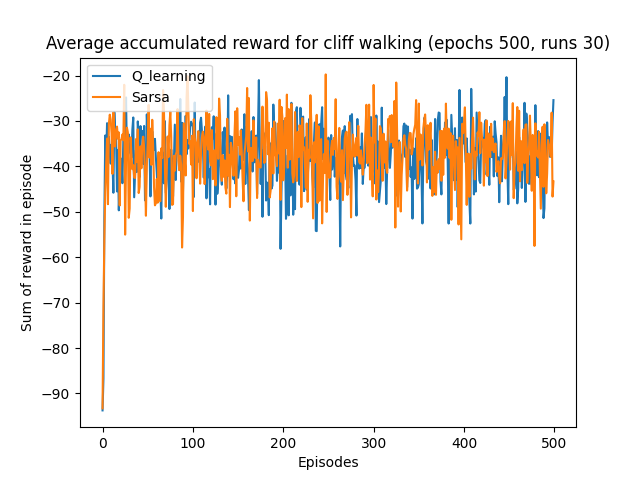
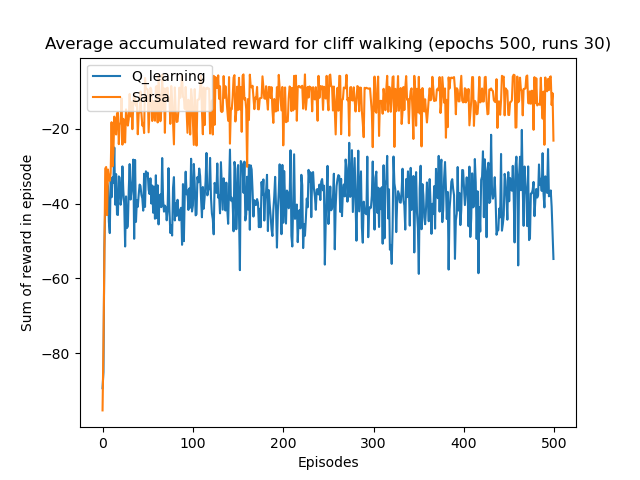
Fixed sarsa vs q-learning plot

diff --git a/rl/rl-book/helpers/play_cliff_walking_vs_agent.py b/rl/rl-book/helpers/play_cliff_walking_vs_agent.py
@@ -4,6 +4,8 @@ import os
 from optimization_utils.diagnostics.Diagnostics import Diagnostics
 from helpers.analysis.Parameter import Parameter
 from .random_agents import RandomAgent
+from .State import State
+from .StateValue import StateValue
 
 EVALUATION_RUNS = 30
 EPOCHS = 500
@@ -13,6 +15,9 @@ def evaluate_agent(env, agent_instance):
 
     for _ in range(EVALUATION_RUNS):
         agent = agent_instance(env.action_space, eps=0.1, decay=1)
+        agent.q = State(env.action_space, value_constructor=lambda n: StateValue(n, initial_value=lambda: 0))
+        agent.alpha = 0.1
+        agent.gamma = 1
         agent_diagnostics = Diagnostics()
 
         with agent_parameter as p:
@@ -26,13 +31,14 @@ def evaluate_agent(env, agent_instance):
 
                 if epoch % 1_000 == 0:
                     agent_diagnostics.print(epoch)
+    print("")
     return agent_parameter
     
 def play_cliff_walking(first_agent_instance, second_agent_instance=RandomAgent, dirname="."):
     env = CliffWalking(n=3)
 
     first_agent_parameter = evaluate_agent(env, first_agent_instance)
-    second_agent_parameter = evaluate_agent(env, first_agent_instance)
+    second_agent_parameter = evaluate_agent(env, second_agent_instance)
 
     plt.plot(first_agent_parameter.get_reward(), label=first_agent_instance.__name__)
     plt.plot(second_agent_parameter.get_reward(), label=second_agent_instance.__name__)

diff --git a/rl/rl-book/temporal-difference-learning/sarsa.py b/rl/rl-book/temporal-difference-learning/sarsa.py
@@ -11,6 +11,8 @@ from helpers.play_tic_tac_toe_vs_random_agent import play_tic_tac_toe
 from helpers.play_grid_world_vs_random_agent import play_grid_world
 from helpers.State import State
 import os
+from helpers.action_policy.ArgMaxTieBreak import argmax_tie_break
+import numpy as np
 
 class Sarsa:
     def __init__(self, action, eps=1, decay=0.9999) -> None:
@@ -38,7 +40,14 @@ class Sarsa:
         return random.sample(self.env.legal_actions, k=1)[0]
 
     def on_policy(self):
-        return self.softmax(self.q[str(self.env)].np(), legal_actions=self.env.legal_actions)
+        p = self.q[str(self.env.state)].np().astype(np.float)
+        for index in range(len(p)):
+            if index not in self.env.legal_actions:
+                p[index] = float('-inf')
+        return argmax_tie_break(
+            p
+        )
+        return self.softmax(self.q[str(self.env.state)].np(), legal_actions=self.env.legal_actions)
 
     def get_action(self):
         return self.epsilon(
@@ -60,7 +69,7 @@ class Sarsa:
             if not env.done:
                 next_action = self.get_action()
 
-            if self.is_training:
+            if self.is_training:# and next_action != -1:
                 self.q[state][action] += self.alpha * (
                     reward + self.gamma * self.q[next_state][next_action] -
                                 self.q[state][action]

diff --git a/rl/rl-book/temporal-difference-learning/q_learning.py b/rl/rl-book/temporal-difference-learning/q_learning.py
@@ -11,6 +11,8 @@ from helpers.play_tic_tac_toe_vs_random_agent import play_tic_tac_toe
 from helpers.play_grid_world_vs_random_agent import play_grid_world
 from helpers.State import State
 import os
+from helpers.action_policy.ArgMaxTieBreak import argmax_tie_break
+import numpy as np
 
 class Q_learning:
     def __init__(self, action, eps=1, decay=0.9999) -> None:
@@ -30,9 +32,13 @@ class Q_learning:
         return random.sample(self.env.legal_actions, k=1)[0]
 
     def on_policy(self):
-        import numpy as np
-        b = self.q[str(self.env.state)].np()
-        return np.random.choice(np.where(b == b.max())[0])
+        p = self.q[str(self.env.state)].np().astype(np.float)
+        for index in range(len(p)):
+            if index not in self.env.legal_actions:
+                p[index] = float('-inf')
+        return argmax_tie_break(
+            p
+        )
         #return (self.q[str(self.env.state)].np()).argmax()
         return self.softmax(
             self.q[str(self.env.state)].np(), 
@@ -40,8 +46,7 @@ class Q_learning:
         )
 
     def get_action(self):
-        action, _ = self.epsilon(self)
-    #    print((action, random))
+        action = self.epsilon(self)
         return action
 
     def train(self, env: TicTacToe):

diff --git a/rl/rl-book/temporal-difference-learning/double_q_learning.py b/rl/rl-book/temporal-difference-learning/double_q_learning.py
@@ -13,6 +13,7 @@ from helpers.StateValue import StateValue
 
 import os
 import numpy as np
+from helpers.action_policy.ArgMaxTieBreak import argmax_tie_break
 
 class Double_Q_learning:
     def __init__(self, action, eps=1, decay=0.9999, initial_value=np.random.rand) -> None:
@@ -33,13 +34,10 @@ class Double_Q_learning:
         return random.sample(self.env.legal_actions, k=1)[0]
 
     def on_policy(self):
-        b = (
+        return argmax_tie_break(
             self.q_1[str(self.env.state)].np() +
             self.q_2[str(self.env.state)].np()
-        )#.argmax()
-        import numpy as np
-        return np.random.choice(np.where(b == b.max())[0])
-
+        )
         return self.softmax((
             self.q_1[str(self.env.state)].np() +
             self.q_2[str(self.env.state)].np()

diff --git a/rl/rl-book/helpers/action_policy/Epsilon.py b/rl/rl-book/helpers/action_policy/Epsilon.py
@@ -12,7 +12,7 @@ class EpsilonGreedy:
                                 else search        
 
     def __call__(self, agent):
-        if np.random.rand() >= self.eps :
+        if np.random.rand() >= self.eps:
             return agent.on_policy()
         else:
             if self.eps == 0:

diff --git a/rl/rl-book/helpers/action_policy/ArgMaxTieBreak.py b/rl/rl-book/helpers/action_policy/ArgMaxTieBreak.py
@@ -1,0 +1,4 @@
+import numpy as np
+
+def argmax_tie_break(numpy_array):
+    return np.random.choice(np.where(numpy_array == numpy_array.max())[0])

diff --git a/rl/rl-book/readme.md b/rl/rl-book/readme.md
@@ -38,7 +38,6 @@ Reproducing figure and algorithms from [Reinforcement Learning: An Introduction]
 [Algorithm - Q-Learning (Off-policy TD-control) for estimating policy](./temporal-difference-learning/q_learning.py)
 
 [Figure on page 132 - Q-Learning vs Sarsa](./temporal-difference-learning/Q_learning_Sarsa_cliff_walking.png)
-- **(does not match the book plot well currently)**
 
 (todo) Figure 6.3 - TD-Control performance
 

diff --git a/papers2consider.md b/papers2consider.md
@@ -30,6 +30,7 @@
 
 ## NN architecture
 [https://arxiv.org/pdf/2012.14905.pdf](Meta Learning Backpropagation And Improving It)
+[https://arxiv.org/pdf/2212.05153.pdf](Algorithmic progress in computer vision)
 
 ## Recommendations
 :)
